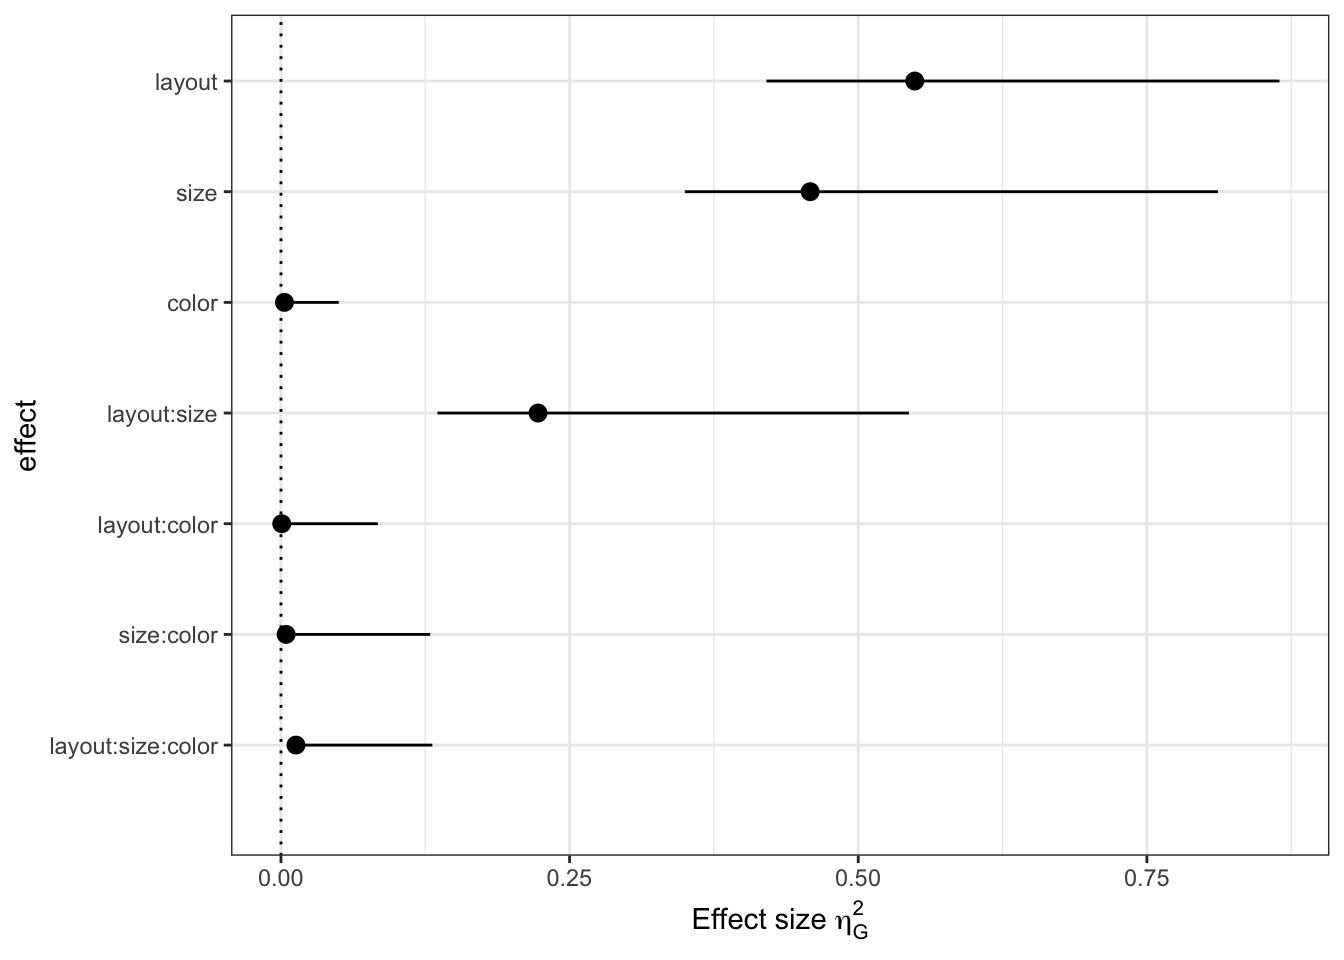
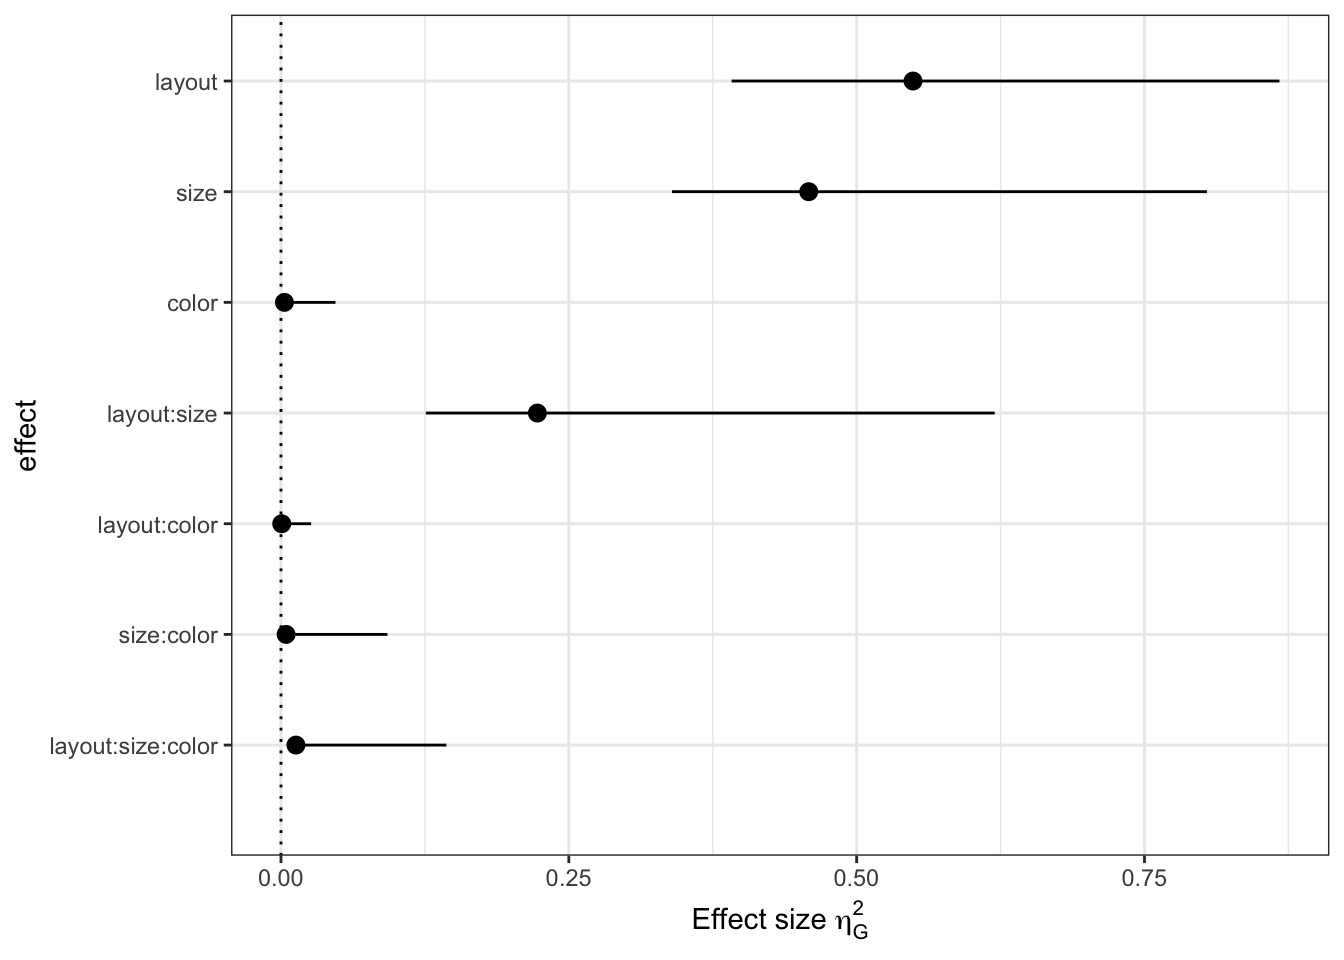
compiled b5bd3b

diff --git a/effectsize.html b/effectsize.html
@@ -217,6 +217,7 @@ code span.wa { color: #60a0b0; font-weight: bold; font-style: italic; } /* Warni
             <section class="normal" id="section-">
 <div id="effectsize" class="section level1">
 <h1><span class="header-section-number">Chapter 2</span> Effect size</h1>
+<p><a href="https://github.com/transparentstats/guidelines"><img style="position: absolute; top: 0; right: 0; border: 0;" src="https://s3.amazonaws.com/github/ribbons/forkme_right_green_007200.png" alt="Fork me on GitHub"></a></p>
 <div style="text-align:center">
 <p><img src="figures/effectsize/teaser.png" /><!-- --></p>
 </div>
@@ -224,6 +225,11 @@ code span.wa { color: #60a0b0; font-weight: bold; font-style: italic; } /* Warni
 <p><strong>Contributed to the writing:</strong> Matthew Kay, Chat Wacharamanotham, Steve Haroz, Pierre Dragicevic, Jacob O. Wobbrock, Janne Lindqvist, Yea-Seul Kim, Amelia McNamara</p>
 <p><strong>Gave feedback:</strong> Fanny Chevalier, Petra Isenberg, Christian Cherek, Hendrik Heuer, Michael McGuffin, Krishna Subramanian, Philipp Wacker, Michael Correll, Jake Hofman, Lewis Chuang, Christian P. Janssen, Jeff Huang, Julie Schiller, Sayamindu Dasgupta, Benjamin Johansen, Gijs Huisman, Florian Echtler, Kai Lukoff, Jennifer Lee Carlson, Nediyana Daskalova, Jennifer J. McGrath, Emanuel Zgraggen</p>
 <p><strong>Endorsed:</strong></p>
+<div class="note">
+<p>
+So far, this document covers the effect sizes of the difference between means. There are other types of effect sizes such as correlation as well. If you are interested to contribute this part, <a href="mailto:core@transparentstatistics.org">get in touch</a>!
+</p>
+</div>
 <div id="faq" class="section level2">
 <h2><span class="header-section-number">2.1</span> FAQ</h2>
 <div id="what-is-an-effect-size" class="section level3">
@@ -231,11 +237,6 @@ code span.wa { color: #60a0b0; font-weight: bold; font-style: italic; } /* Warni
 <p>Broadly speaking, an effect size is “anything that might be of interest” <span class="citation">(Cumming <a href="#ref-Cumming2013a">2013</a>)</span>; it is some quantity that captures the magnitude of the effect studied.</p>
 <p>In HCI, common examples of effect size include the mean difference (e.g., in seconds) in task completion times between two techniques (e.g., using a mouse vs. keyboard), or the mean difference in error rates (e.g., in percent). These are called <em>simple effect sizes</em> (or <em>unstandardized effect sizes</em>).</p>
 <p>More complex measures of effect size exist called <em>standardized effect sizes</em> (see <a href="effectsize.html#effectsize_faq_standardized">What is a standardized effect size?</a>). Although the term <em>effect size</em> is often used to refer to standardized effect sizes only, using the term in a broader sense can avoid unnecessary confusion <span class="citation">(Cumming <a href="#ref-Cumming2013a">2013</a>; Wilkinson <a href="#ref-Wilkinson1999a">1999</a>)</span>. In this document, “effect size” refers to both simple and standardized effect sizes.</p>
-<div class="note">
-<p>
-So far, this document covers the effect sizes of the difference between means. There are other types of effect sizes such as correlation as well.
-</p>
-</div>
 </div>
 <div id="effectsize_faq_when_why" class="section level3">
 <h3><span class="header-section-number">2.1.2</span> Why and when should effect sizes be reported?</h3>
@@ -814,7 +815,7 @@ If you would like to contribute, please see
 <a class="sourceLine" id="cb17-17" data-line-number="17">    analyze_many_iterations) <span class="co"># the function to run in each core</span></a>
 <a class="sourceLine" id="cb17-18" data-line-number="18">)</a></code></pre></div>
 <pre><code>##    user  system elapsed 
-##   0.002   0.001   8.580</code></pre>
+##   0.004   0.001  11.763</code></pre>
 <div class="sourceCode" id="cb19"><pre class="sourceCode r"><code class="sourceCode r"><a class="sourceLine" id="cb19-1" data-line-number="1"><span class="co"># the cluster is no longer needed</span></a>
 <a class="sourceLine" id="cb19-2" data-line-number="2"><span class="kw">stopCluster</span>(my_cluster)</a>
 <a class="sourceLine" id="cb19-3" data-line-number="3"><span class="co"># cleanup</span></a>
@@ -865,8 +866,8 @@ If you would like to contribute, please see
 <td align="right">86.61117</td>
 <td align="right">186.9153824</td>
 <td align="right">0.5489428</td>
-<td align="right">0.4204160</td>
-<td align="right">0.8648450</td>
+<td align="right">0.3913573</td>
+<td align="right">0.8672247</td>
 </tr>
 <tr class="even">
 <td align="left">size</td>
@@ -875,8 +876,8 @@ If you would like to contribute, please see
 <td align="right">51.97262</td>
 <td align="right">108.2961322</td>
 <td align="right">0.4583589</td>
-<td align="right">0.3498418</td>
-<td align="right">0.8116639</td>
+<td align="right">0.3396110</td>
+<td align="right">0.8042147</td>
 </tr>
 <tr class="odd">
 <td align="left">color</td>
@@ -885,8 +886,8 @@ If you would like to contribute, please see
 <td align="right">14.50618</td>
 <td align="right">0.9125176</td>
 <td align="right">0.0029764</td>
-<td align="right">0.0010121</td>
-<td align="right">0.0500429</td>
+<td align="right">0.0014778</td>
+<td align="right">0.0472905</td>
 </tr>
 <tr class="even">
 <td align="left">layout:size</td>
@@ -895,8 +896,8 @@ If you would like to contribute, please see
 <td align="right">31.84102</td>
 <td align="right">59.8437233</td>
 <td align="right">0.2226922</td>
-<td align="right">0.1355233</td>
-<td align="right">0.5439404</td>
+<td align="right">0.1257899</td>
+<td align="right">0.6199248</td>
 </tr>
 <tr class="odd">
 <td align="left">layout:color</td>
@@ -905,8 +906,8 @@ If you would like to contribute, please see
 <td align="right">19.24758</td>
 <td align="right">0.1492400</td>
 <td align="right">0.0006474</td>
-<td align="right">0.0002416</td>
-<td align="right">0.0838645</td>
+<td align="right">0.0003481</td>
+<td align="right">0.0261474</td>
 </tr>
 <tr class="even">
 <td align="left">size:color</td>
@@ -915,8 +916,8 @@ If you would like to contribute, please see
 <td align="right">21.02831</td>
 <td align="right">0.4695047</td>
 <td align="right">0.0044335</td>
-<td align="right">0.0024160</td>
-<td align="right">0.1292213</td>
+<td align="right">0.0025717</td>
+<td align="right">0.0924793</td>
 </tr>
 <tr class="odd">
 <td align="left">layout:size:color</td>
@@ -925,8 +926,8 @@ If you would like to contribute, please see
 <td align="right">20.73981</td>
 <td align="right">1.4065459</td>
 <td align="right">0.0129870</td>
-<td align="right">0.0073052</td>
-<td align="right">0.1311094</td>
+<td align="right">0.0059333</td>
+<td align="right">0.1436785</td>
 </tr>
 </tbody>
 </table>
@@ -958,16 +959,16 @@ If you would like to contribute, please see
 <p>Generalized eta squared (GES) represents the proportion of variance in the results explained by each variable. The previous graph shows clear main effects for <code>layout</code> and <code>size</code> and an interaction between <code>layout</code> and <code>size</code>. However <code>color</code> and the other 2-way and 3-way interactions are relatively much smaller, barely above zero. There is no useful cutoff for what counts as a “significant” effect, so think in terms of relative size – which variables best explain the variance in the results?</p>
 <p>Strong effects:</p>
 <ul>
-<li><strong>layout:</strong> F<sub>1,5</sub> = 187, <span class="math inline">\(\eta_{G}^{2}\)</span> = 0.549 95% CI [0.42, 0.865]</li>
-<li><strong>size:</strong> F<sub>2,10</sub> = 108, <span class="math inline">\(\eta_{G}^{2}\)</span> = 0.458 95% CI [0.35, 0.812]</li>
-<li><strong>layout</strong> × <strong>size:</strong> F<sub>2,10</sub> = 59.8, <span class="math inline">\(\eta_{G}^{2}\)</span> = 0.223 95% CI [0.136, 0.544]</li>
+<li><strong>layout:</strong> F<sub>1,5</sub> = 187, <span class="math inline">\(\eta_{G}^{2}\)</span> = 0.549 95% CI [0.391, 0.867]</li>
+<li><strong>size:</strong> F<sub>2,10</sub> = 108, <span class="math inline">\(\eta_{G}^{2}\)</span> = 0.458 95% CI [0.34, 0.804]</li>
+<li><strong>layout</strong> × <strong>size:</strong> F<sub>2,10</sub> = 59.8, <span class="math inline">\(\eta_{G}^{2}\)</span> = 0.223 95% CI [0.126, 0.62]</li>
 </ul>
 <p>Minimally impactful:</p>
 <ul>
-<li><strong>color</strong> F<sub>3,15</sub> = 0.913, <span class="math inline">\(\eta_{G}^{2}\)</span> = 0.00298 95% CI [0.00101, 0.05]</li>
-<li><strong>layout</strong> × <strong>color:</strong> F<sub>3,15</sub> = 0.149, <span class="math inline">\(\eta_{G}^{2}\)</span> = 0.000647 95% CI [0.000242, 0.0839]</li>
-<li><strong>size</strong> × <strong>color:</strong> F<sub>6,30</sub> = 0.47, <span class="math inline">\(\eta_{G}^{2}\)</span> = 0.00443 95% CI [0.00242, 0.129]</li>
-<li><strong>layout</strong> × <strong>size</strong> × <strong>color:</strong> F<sub>6,30</sub> = 1.41, <span class="math inline">\(\eta_{G}^{2}\)</span> = 0.013 95% CI [0.00731, 0.131]</li>
+<li><strong>color</strong> F<sub>3,15</sub> = 0.913, <span class="math inline">\(\eta_{G}^{2}\)</span> = 0.00298 95% CI [0.00148, 0.0473]</li>
+<li><strong>layout</strong> × <strong>color:</strong> F<sub>3,15</sub> = 0.149, <span class="math inline">\(\eta_{G}^{2}\)</span> = 0.000647 95% CI [0.000348, 0.0261]</li>
+<li><strong>size</strong> × <strong>color:</strong> F<sub>6,30</sub> = 0.47, <span class="math inline">\(\eta_{G}^{2}\)</span> = 0.00443 95% CI [0.00257, 0.0925]</li>
+<li><strong>layout</strong> × <strong>size</strong> × <strong>color:</strong> F<sub>6,30</sub> = 1.41, <span class="math inline">\(\eta_{G}^{2}\)</span> = 0.013 95% CI [0.00593, 0.144]</li>
 </ul>
 
 </div>

diff --git a/index.html b/index.html
@@ -222,6 +222,7 @@ code span.wa { color: #60a0b0; font-weight: bold; font-style: italic; } /* Warni
 </div>
 <div id="preface" class="section level1 unnumbered">
 <h1>Preface</h1>
+<p><a href="https://github.com/transparentstats/guidelines"><img style="position: absolute; top: 0; right: 0; border: 0;" src="https://s3.amazonaws.com/github/ribbons/forkme_right_green_007200.png" alt="Fork me on GitHub"></a></p>
 <p><a href="https://doi.org/10.5281/zenodo.1228032"><img src="https://img.shields.io/badge/DOI%20current%20version-10.5281%2Fzenodo.1228032-green.svg" alt="DOI current version" /></a> <a href="https://doi.org/10.5281/zenodo.1186169"><img src="https://img.shields.io/badge/DOI%20all%20versions-10.5281%2Fzenodo.1186169-blue.svg" alt="DOI all versions" /></a></p>
 <p>This document grew out of a Special Interest Group and Workshop to develop guidelines for transparent statistical communication in Human-Computer Interaction research.
 The recommendations in this guideline are chosen to encourage transparency in the practice of statistics.
